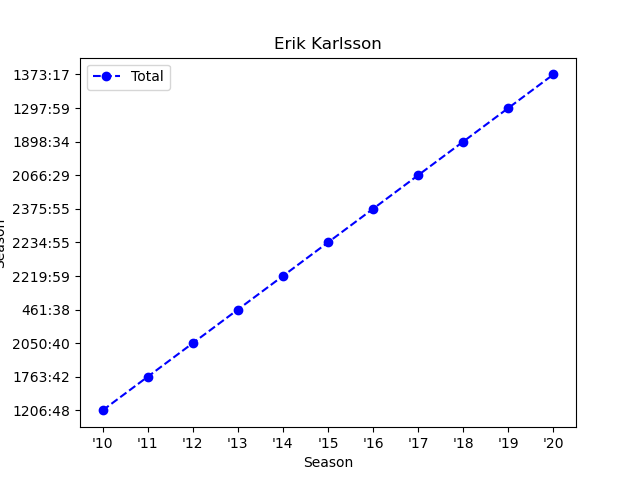
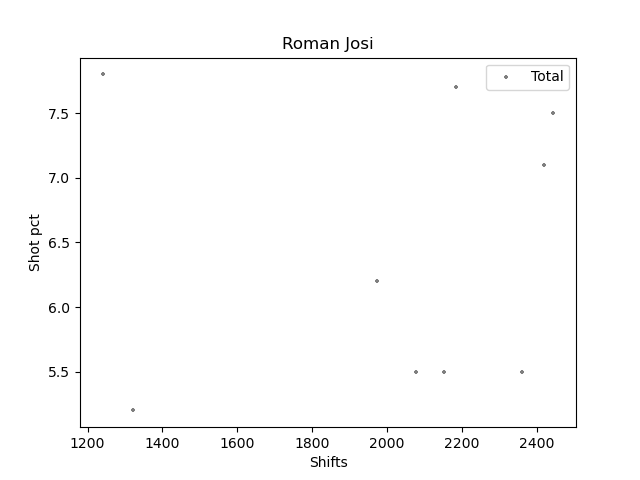
Created a bit more customization for plots based on situation

diff --git a/server/templates/index.html b/server/templates/index.html
@@ -36,8 +36,8 @@ form {
 </head>
 <body>
 <script src="../apiInterface.py"></script>
-<h1>Season Seer</h1>
-<h2>Look forward to your next fantasy season!</h2>
+<h1 style="text-align:center;">Season Seer</h1>
+<h2 style="text-align:center;">Look forward to your next fantasy season!</h2>
 <form action="/my-link/" target="_blank">
 <div class="row">
     <div class="column">

diff --git a/server/templates/plotPage.html b/server/templates/plotPage.html
@@ -1,0 +1,9 @@
+<!DOCTYPE html>
+<html>
+<head>
+    <title>Results</title>
+</head>
+<body>
+    <img src="{{ user_image }}" alt="Error generating image">
+</body>
+</html>

diff --git a/server/apiInterface.py b/server/apiInterface.py
@@ -9,7 +9,11 @@ import matplotlib
 matplotlib.use('Agg')
 import matplotlib.pyplot as plt
 from flask import Flask, render_template, request
+from PIL import Image 
+
+#PEOPLE_FOLDER = os.path.join('..\static', 'plots')
 app = Flask(__name__)
+#app.config['UPLOAD_FOLDER'] = PEOPLE_FOLDER
 
 def get_teams():
   print ('The URL response is '+request.full_path.split("?")[1])
@@ -333,13 +337,17 @@ def makePlot(playerID):
   else:
     horizontalTitle =horizontalInput.capitalize()
   if (not verticalInput.islower()):
-    verticalTitle = re.sub(r"(?<=\w)([A-Z])", r" \1", horizontalInput).capitalize()
+    verticalTitle = re.sub(r"(?<=\w)([A-Z])", r" \1", verticalInput).capitalize()
   else:
     verticalTitle =verticalInput.capitalize()
   fig, ax = plt.subplots()
+  if (str(request.args.get('horizontal', type = str))=='age' or str(request.args.get('horizontal', type = str))=='season'):
+    ax.plot(horizontalAxis, verticalAxis, linestyle='--', marker='o', color='r', label = perGame)
+  else:
+    ax.scatter(horizontalAxis, verticalAxis, c='#000000', s = 10, label = perGame, alpha=0.5, marker="+")
   #ax.scatter(horizontalAxis, verticalAxis, c='#3a34eb', s = 2, label = perGame, alpha=0.5)
   #plt.scatter(x, y, s=area, c=colors, alpha=0.5)
-  ax.plot(horizontalAxis, verticalAxis, '--bo', label = perGame)
+  #ax.plot(horizontalAxis, verticalAxis, '--bo', label = perGame)
   ax.set_xlabel(horizontalTitle)
   ax.set_ylabel(verticalTitle)
   ax.set_title(playerCharacteristics["people"][0]["fullName"])  # Add a title to the axes.
@@ -351,9 +359,16 @@ def makePlot(playerID):
     print("Deleting your files!")
     os.remove('plots/currentChart.png') 
   plt.savefig('plots/currentChart.png')
+  #full_filename = os.path.join(app.config['UPLOAD_FOLDER'], 'currentChart.png')
+  #full_filename = os.path.join(app.config['UPLOAD_FOLDER'], 'currentChart.png')
+  #print ("the filename is "+full_filename)
+  #print ("The pwd is "+os.getcwd())
   endTime = time.perf_counter()
   print("Chart generated in "+str(endTime-startTime)+" seconds.")
-  return ' <img src="currentChart.png" alt="Error generating image"> '
+  im = Image.open(r"plots/currentChart.png")
+  im.show()
+  #return render_template("plotPage.html", user_image = full_filename)
+  return '<h3>Image Generated</h3>'
 
 #This function is to get the results for when you hover over an abbreviated category
 def getToolTip():
